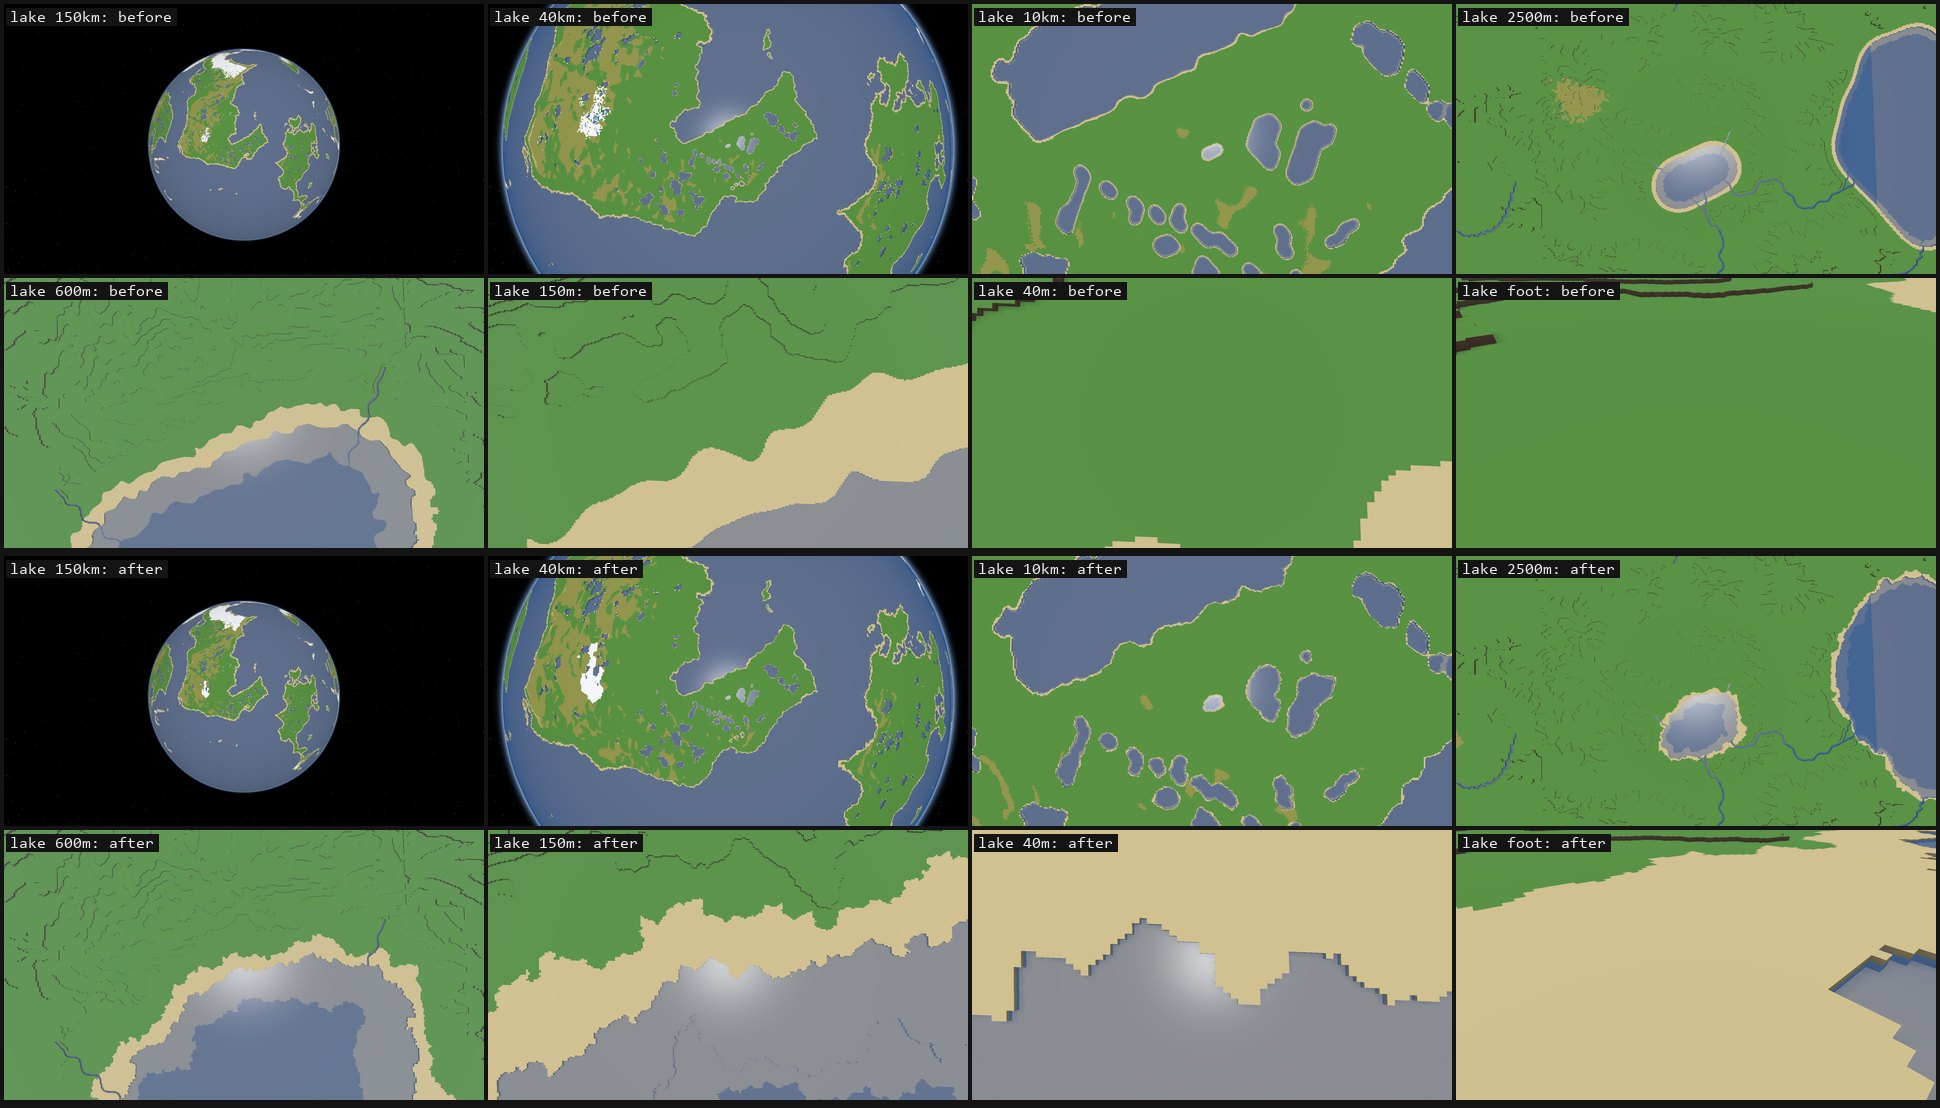
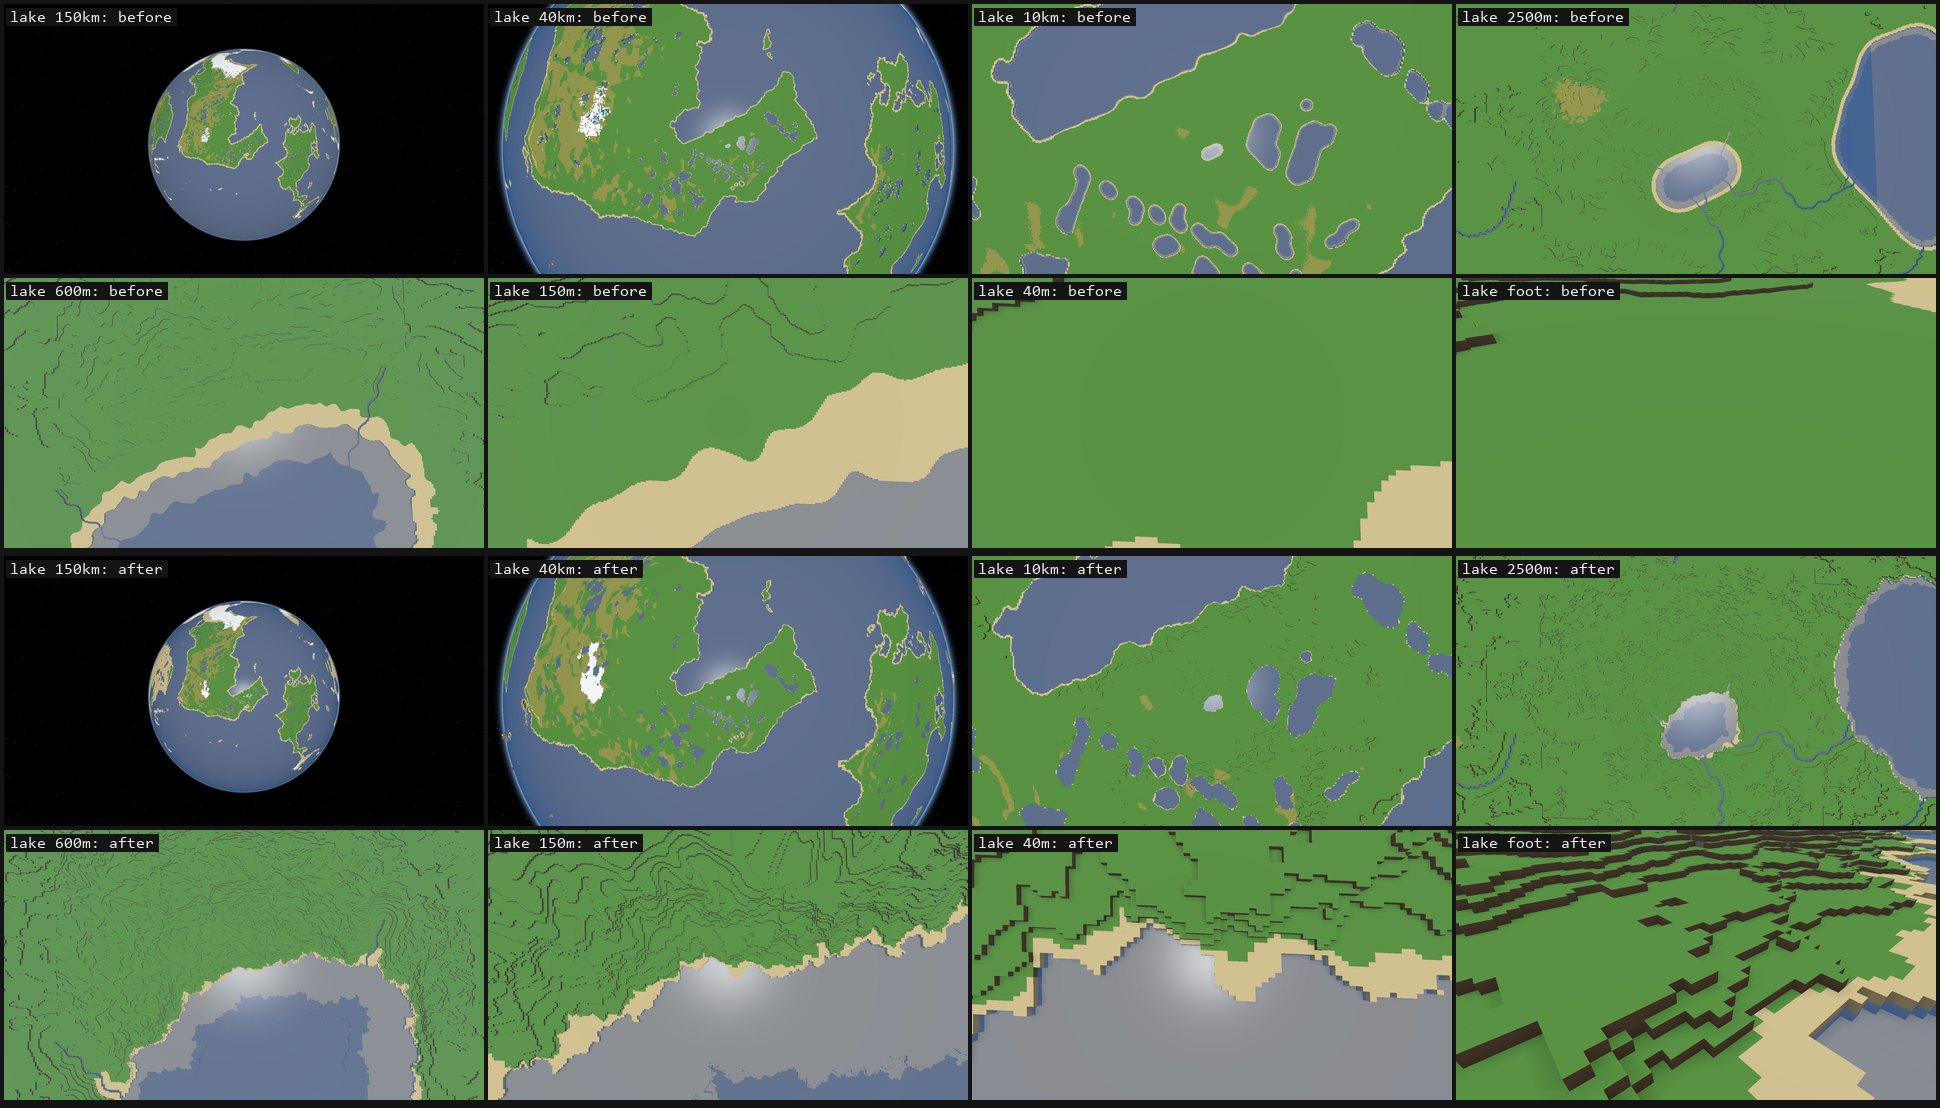
T3: a gate on a lake's bands, the ladder's snow site, evidence on the merged terrain

diff --git a/game/src/worldgen/boundary_tests.rs b/game/src/worldgen/boundary_tests.rs
@@ -964,57 +964,77 @@ fn boundary_cost() {
     }
 }
 
-/// Not a check: how wide a lake's bands are on the ground. From shore points
-/// over the planet's lakes, walks across the shore and prints the median
-/// distance (m) from the shoreline to where the dry sand stops, where the
-/// apron's hold stops, and where the bed reaches 90% of its depth, per planet
-/// size (`BOUNDARY_SIZES`, half-heights, 0 = Neisor).
+/// How wide a lake's bands are on the ground, walking across the shore at
+/// every `step`th lake: from the shoreline to where the dry sand stops, to
+/// where the apron's hold stops, and to where the bed reaches 90% of its depth
+/// (m), each a list over the shores.
+fn lake_bands(g: &Generator, step: usize) -> [Vec<f64>; 3] {
+    let h = g.hydro.as_deref().unwrap();
+    let zone = h.lake_zone;
+    let rows: Vec<[f64; 3]> = (0..h.lakes.len() as i32)
+        .into_par_iter()
+        .step_by(step)
+        .filter_map(|k| {
+            let d = super::hydro_tests::shore_point_for(h, k, 0)?;
+            let lake = |dir: DVec3| {
+                let c = h.cands(dir, 0.0);
+                h.lake_at(dir, &c.cells, g.planet.block_size)
+            };
+            let e = 2.0 / g.planet.radius;
+            let (t1, t2) = (DVec3::new(d.y, -d.x, 0.0).normalize(), d.cross(DVec3::new(d.y, -d.x, 0.0)).normalize());
+            let f = |dir: DVec3| lake(dir).field_of(k);
+            let (gx, gy) = (f((d + t1 * e).normalize()) - f((d - t1 * e).normalize()), f((d + t2 * e).normalize()) - f((d - t2 * e).normalize()));
+            let out = -(t1 * gx + t2 * gy).normalize_or_zero();
+            let at = |x: f64| (d + out * (x / g.planet.radius)).normalize();
+            let step = 2.0;
+            let walk = |stop: &dyn Fn(f64) -> bool| (1..3000).map(|n| n as f64 * step).find(|x| stop(*x));
+            let w = h.lakes[k as usize].w;
+            let sand = walk(&|x| {
+                let c = g.column(at(x), 1.0);
+                !c.wet() && !c.lake_sand
+            })?;
+            let apron = walk(&|x| lake(at(x)).iter().find(|l| l.lake == k).is_none_or(|l| l.past_apron(zone) > 0.0))?;
+            let bed = (1..3000).map(|n| g.column(at(-(n as f64) * step), 1.0).height_m as f64).fold(f64::MAX, f64::min);
+            let shelf = walk(&|x| w - g.column(at(-x), 1.0).height_m as f64 >= 0.9 * (w - bed)).unwrap_or(f64::NAN);
+            Some([sand, apron, shelf])
+        })
+        .collect();
+    [0, 1, 2].map(|b| {
+        let mut v: Vec<f64> = rows.iter().map(|r| r[b]).filter(|x| x.is_finite()).collect();
+        v.sort_by(f64::total_cmp);
+        v
+    })
+}
+
+/// Not a check: `lake_bands` per planet size (`BOUNDARY_SIZES`, half-heights,
+/// 0 = Neisor).
 #[test]
 #[ignore]
 fn boundary_lake_bands() {
     let sizes = std::env::var("BOUNDARY_SIZES").unwrap_or_else(|_| "0 128 256 512 832 1024".into());
     for size in sizes.split_whitespace().map(|s| s.parse::<u32>().unwrap()) {
         let g = if size == 0 { super::tests::generator_pub(None, 2048, 1024) } else { super::tests::planet_size_generator(size) };
-        let h = g.hydro.as_deref().unwrap();
-        let zone = h.lake_zone;
-        let scale = g.planet.radius / 90_569.0;
-        let names = ["dry sand", "apron", "shelf"];
-        let rows: Vec<[f64; 3]> = (0..h.lakes.len() as i32)
-            .into_par_iter()
-            .step_by(7)
-            .filter_map(|k| {
-                let d = super::hydro_tests::shore_point_for(h, k, 0)?;
-                let lake = |dir: DVec3| {
-                    let c = h.cands(dir, 0.0);
-                    h.lake_at(dir, &c.cells, g.planet.block_size)
-                };
-                let e = 2.0 / g.planet.radius;
-                let (t1, t2) = (DVec3::new(d.y, -d.x, 0.0).normalize(), d.cross(DVec3::new(d.y, -d.x, 0.0)).normalize());
-                let f = |dir: DVec3| lake(dir).field_of(k);
-                let (gx, gy) = (f((d + t1 * e).normalize()) - f((d - t1 * e).normalize()), f((d + t2 * e).normalize()) - f((d - t2 * e).normalize()));
-                let out = -(t1 * gx + t2 * gy).normalize_or_zero();
-                let at = |x: f64| (d + out * (x / g.planet.radius)).normalize();
-                let step = 2.0;
-                let walk = |stop: &dyn Fn(f64) -> bool| (1..3000).map(|n| n as f64 * step).find(|x| stop(*x));
-                let w = h.lakes[k as usize].w;
-                let sand = walk(&|x| {
-                    let c = g.column(at(x), 1.0);
-                    !c.wet() && !c.lake_sand
-                })?;
-                let apron = walk(&|x| lake(at(x)).iter().find(|l| l.lake == k).is_none_or(|l| l.past_apron(zone) > 0.0))?;
-                let bed = (1..3000).map(|n| g.column(at(-(n as f64) * step), 1.0).height_m as f64).fold(f64::MAX, f64::min);
-                let shelf = walk(&|x| w - g.column(at(-x), 1.0).height_m as f64 >= 0.9 * (w - bed)).unwrap_or(f64::NAN);
-                Some([sand, apron, shelf])
-            })
-            .collect();
-        print!("size {size:5}: R {:8.1} km, {} shores:", g.planet.radius / 1000.0, rows.len());
-        let _ = scale;
-        for b in 0..3 {
-            let mut v: Vec<f64> = rows.iter().map(|r| r[b]).filter(|x| x.is_finite()).collect();
-            v.sort_by(f64::total_cmp);
-            print!("  {} median {:.0} m (p90 {:.0})", names[b], v[v.len() / 2], v[v.len() * 9 / 10]);
+        let bands = lake_bands(&g, 7);
+        print!("size {size:5}: R {:8.1} km, {} shores:", g.planet.radius / 1000.0, bands[1].len());
+        for (name, v) in ["dry sand", "apron", "shelf"].iter().zip(&bands) {
+            print!("  {name} median {:.0} m (p90 {:.0})", v[v.len() / 2], v[v.len() * 9 / 10]);
         }
         println!();
+    }
+}
+
+/// A lake's outline stretches with the planet and the bands round it don't:
+/// they are ground. On the 832 planet the apron and the shelf are what they
+/// are on Neisor, near enough. (In field units alone they came out six or seven
+/// times wider, 754 m and 1,157 m against 128 m and 168 m.)
+#[test]
+fn a_lakes_bands_keep_their_metres_on_any_planet() {
+    let (near, far) = (super::tests::generator_pub(None, 2048, 1024), super::tests::planet_size_generator(832));
+    let (a, b) = (lake_bands(&near, 14), lake_bands(&far, 14));
+    for (name, x, y) in [("sand", &a[0], &b[0]), ("apron", &a[1], &b[1]), ("shelf", &a[2], &b[2])] {
+        let (mx, my) = (x[x.len() / 2], y[y.len() / 2]);
+        println!("{name}: median {mx:.0} m on Neisor, {my:.0} m at 832");
+        assert!(my < 1.6 * mx + 4.0, "{name} is {my:.0} m at 832 and {mx:.0} m on Neisor");
     }
 }
 

diff --git a/game/README.md b/game/README.md
@@ -902,6 +902,10 @@ can't make a piece that isn't in the bake.
   and take a lower slope for the same rock (`rock_slope_at`). Rock on a chunk's
   surface costs a lattice of columns where the ground is steep, nothing on
   gentle ground. Real cliffs, too narrow for 16 m, are rock by their own slope.
+- **Lakes.** The outline is a position and stretches with the planet; the bands
+  round it are ground, and keep their metres on any planet: an apron 150 m wide,
+  a sand band up to 50 m, a shelf of 170 m out to full depth (`LAKE_APRON_M`,
+  `LAKE_SAND_M`, `LAKE_SHELF_M`, each stopping at its field threshold too).
 - **Cost.** A chunk samples the climate at 25 nodes. If no threshold can lie in
   it, its columns interpolate them and skip the warp; only chunks with a line
   in them pay per column. `far_chunks_hold_no_boundary` proves that changes no
